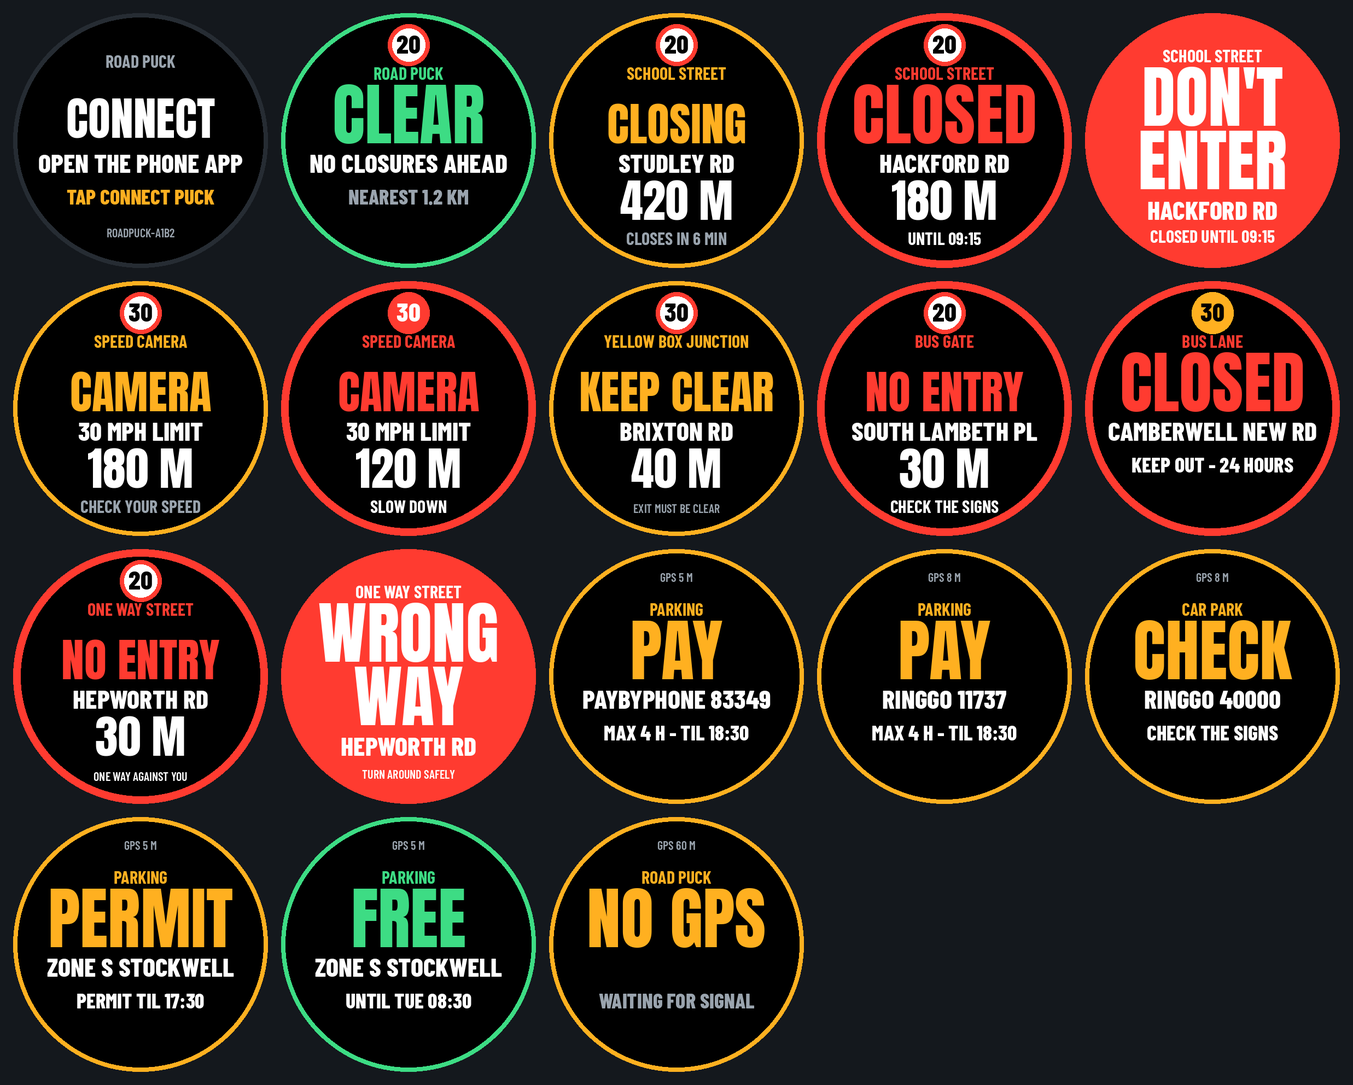
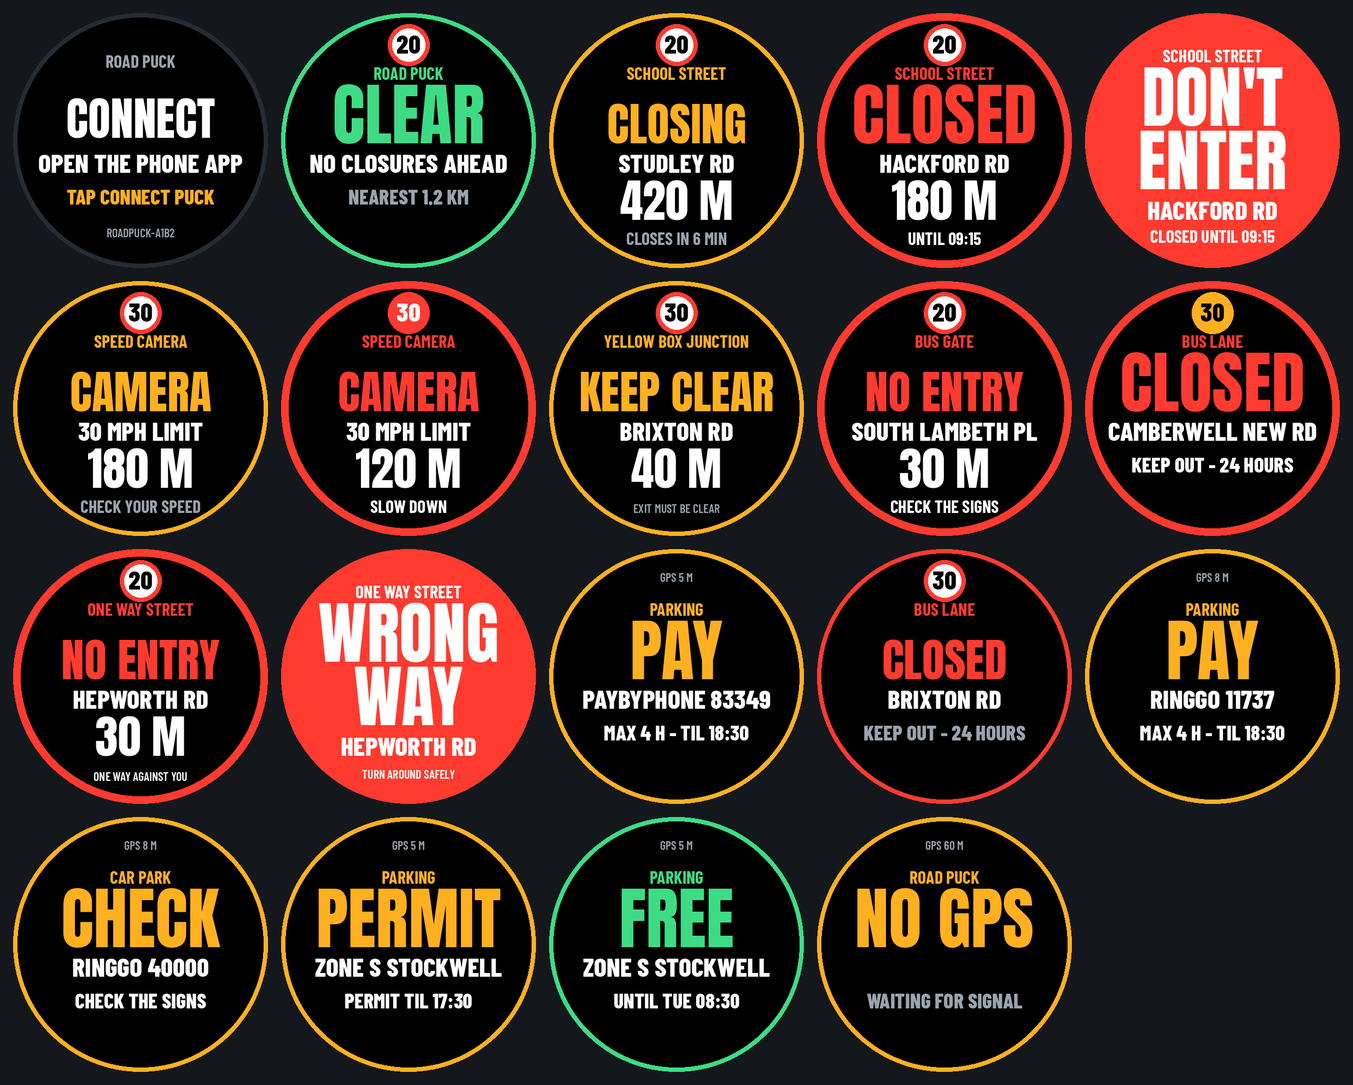
Bus lanes: warn once per stretch, then a quiet reminder
- Bus lane pieces on the same road and direction form one stretch: full
  CLOSED screen and voice for its first few seconds, then a new quiet state L
  (smaller word, thin ring, no sound) while you drive beside it
- The stretch is held through junction gaps, GPS wobbles and stops at lights;
  a lane that restarts after 120-400 m shows the full screen silently, and
  after 400 m with no bus lane the next one is a new stretch
- Voice rule shared by app and tests (makeVoice): new alerts only, the same
  alert never twice within 2 minutes, quiet alerts never spoken
- A junction with several yellow box shapes is announced once
- tools/sim_drive.js drives a simulated car along a bus lane and prints what
  the driver hears and sees (Brixton Road southbound: 6 bus lane announcements
  down to 1)
- Firmware and puck preview draw state L; demo screen added

Claude-Session: https://claude.ai/code/session_01BRf2QL3Ni6oZgq3dsnjTwK

diff --git a/docs/engine.js b/docs/engine.js
@@ -498,7 +498,7 @@
   // ================= the decision =================
   // pos = { x, y (metres), acc (m), speed (m/s or null), heading (deg or null) }
   // ctx = { roads, zones, parked, mem }  (all optional; mem is a {} the caller keeps between calls)
-  const SEVERITY = { N: 0, K: 1, G: 1, F: 1, P: 1, O: 2, W: 3, Y: 3, C: 4, E: 4, S: 4, X: 5, R: 5 };
+  const SEVERITY = { N: 0, K: 1, G: 1, F: 1, P: 1, O: 2, L: 2, W: 3, Y: 3, C: 4, E: 4, S: 4, X: 5, R: 5 };
 
   function evaluate(feats, pos, clock, ctx = {}) {
     const mem = ctx.mem || (ctx.mem = {});
@@ -629,7 +629,24 @@
       });
     }
     // --- bus lanes on this road, in this direction ---
-    let busWarn = null, busAlong = null;
+    // A long bus lane is stored as many pieces. Pieces on the same road in the same direction form one stretch:
+    // full warning (and voice) once when you join a stretch, then a quiet reminder while you drive beside it,
+    // including across junction gaps. The stretch is forgotten after 400 m with no bus lane.
+    let busWarn = null, busAlong = null, busRemind = null;
+    const busMk = (l, st, dist, quiet) => {
+      const road = l.road.toUpperCase(), rs = shortName(l.road), corr = l.road + '|' + l.direction;
+      const who = l.vehicles.replace(/ and /i, ', ').toUpperCase();
+      const until = st.allDay ? 'IN FORCE 24 HOURS' : `IN FORCE UNTIL ${fmt(st.until)}`;
+      const keep = st.allDay ? 'KEEP OUT - 24 HOURS' : `KEEP OUT TIL ${fmt(st.until)}`;
+      if (quiet === 'remind') return mk('L', {
+        ...extra, kind: 'BUS LANE', word: 'CLOSED', road, roadShort: rs, dist: null, detail: until, puckDetail: keep,
+        instr: `Bus lane alongside: stay out of it. ${who} only.`, lane: l, key: 'L|BUS|' + corr, quiet: true,
+      });
+      return mk('C', {
+        ...extra, kind: 'BUS LANE', word: 'CLOSED', road, roadShort: rs, dist, detail: until, puckDetail: keep,
+        instr: `Stay out of the bus lane. ${who} only.`, lane: l, key: 'C|BUS|' + corr, quiet: !!quiet,
+      });
+    };
     if (ctx.bus && moving) {
       const maxD = 15 + Math.min(pos.acc || 0, 15);
       const h = pos.heading * Math.PI / 180;
@@ -638,26 +655,38 @@
       const hit = on || soon;
       if (hit) {
         const l = hit.l, st = busStatus(l, clock), road = l.road.toUpperCase(), rs = shortName(l.road);
-        const who = l.vehicles.replace(/ and /i, ', ').toUpperCase();
-        const dist = on ? null : 60;
+        const dist = on ? null : 60, corr = l.road + '|' + l.direction;
+        let s = mem.busStretch;
+        const gap = s ? Math.hypot(p[0] - s.last[0], p[1] - s.last[1]) : Infinity;
+        if (!s || s.id !== corr || s.k !== st.k || gap > 400) s = mem.busStretch = { id: corr, k: st.k, n: 0, quiet: false };
+        else if (gap > 120) { s.n = 0; s.quiet = true; }   // starts again after a real gap: show it again, silently
+        s.last = p; s.n++; s.l = l; s.st = st;
         if (st.k === 'closed') {
-          const busC = mk('C', {
-            ...extra, kind: 'BUS LANE', word: 'CLOSED', road, roadShort: rs, dist,
-            detail: st.allDay ? 'IN FORCE 24 HOURS' : `IN FORCE UNTIL ${fmt(st.until)}`,
-            puckDetail: st.allDay ? 'KEEP OUT - 24 HOURS' : `KEEP OUT TIL ${fmt(st.until)}`,
-            instr: `Stay out of the bus lane. ${who} only.`, lane: l,
-          });
-          if (!on) return busC;       // a bus lane starting just ahead
-          busAlong = busC;            // already beside it: hazards just ahead come first
+          if (s.n <= 8) {                                  // first few seconds of this stretch: full warning
+            const busC = busMk(l, st, dist, s.quiet);
+            if (!on) return busC;                          // a bus lane starting just ahead
+            busAlong = busC;                               // already beside it: hazards just ahead come first
+          } else busRemind = busMk(l, st, null, 'remind');
         }
         if (st.k === 'closing') busWarn = mk('W', {
           ...extra, kind: 'BUS LANE', word: 'CLOSING', road, roadShort: rs, dist,
           detail: `IN FORCE FROM ${fmt(st.at)}`, puckDetail: `FROM ${fmt(st.at)}`,
-          instr: `The bus lane comes into force in ${st.inMin} min. Leave it before ${fmt(st.at)}.`, lane: l,
+          instr: `The bus lane comes into force in ${st.inMin} min. Leave it before ${fmt(st.at)}.`, lane: l, key: 'W|BUS|' + corr,
         });
         mem.busOpen = st.k === 'open' ? { l, st, road, rs, dist } : null;  // open lanes are shown only if nothing else is going on
-      } else mem.busOpen = null;
-    } else mem.busOpen = null;
+      } else { mem.busOpen = null; holdBus(); }
+    } else { mem.busOpen = null; if (ctx.bus) holdBus(); }   // stopped at lights beside a bus lane: keep what was showing
+    function holdBus() {   // junction between pieces, a GPS wobble, or a stop: hold the stretch for up to 120 m
+      const s = mem.busStretch;
+      if (!s) return;
+      const gap = Math.hypot(p[0] - s.last[0], p[1] - s.last[1]);
+      if (gap > 400) { mem.busStretch = null; return; }
+      if (gap > 120 || s.k !== 'closed') return;
+      const st = busStatus(s.l, clock);
+      if (st.k !== 'closed') return;
+      if (s.n > 8) busRemind = busMk(s.l, st, null, 'remind');
+      else busAlong = busMk(s.l, st, null, s.quiet);
+    }
 
     // --- bus gate / no motor vehicles / pedestrian zone / timed no entry ahead ---
     let restrWarn = null;
@@ -702,6 +731,7 @@
         detail: box.d ? 'ENTER ONLY IF YOUR EXIT IS CLEAR' : "DON'T STOP IN THE BOX",
         puckDetail: box.d ? 'EXIT MUST BE CLEAR' : "DON'T STOP IN BOX",
         instr: 'Yellow box: only enter when your exit is clear (you may wait in it to turn right).', box: box.bx,
+        key: 'Y|BOX|' + box.bx.junction.replace(/\s*\(.*?\)\s*/g, ' ').trim(),   // a junction can have several box shapes: announce it once
       });
     }
 
@@ -714,6 +744,7 @@
     });
     if (busWarn) return busWarn;
     if (restrWarn) return restrWarn;
+    if (busRemind && !ctx.parked) return busRemind;   // quiet: beside a bus lane you've already been warned about
 
     // --- parked: what are the parking rules here? ---
     if (ctx.parked && (ctx.zones || ctx.pbp || ctx.cps)) {
@@ -861,7 +892,8 @@
       lane: o.lane || null,
       restr: o.restr || null, cam: o.cam || null, box: o.box || null, camOver: !!o.camOver,
       limit: null, mph: null, over: 0,
-      key: st + (o.kind || '') + (f ? f.id : o.lane ? o.lane.id : o.restr ? o.restr.id : o.cam ? o.cam.id : o.box ? o.box.id : o.road || ''),
+      quiet: !!o.quiet,
+      key: o.key || st + (o.kind || '') + (f ? f.id : o.lane ? o.lane.id : o.restr ? o.restr.id : o.cam ? o.cam.id : o.box ? o.box.id : o.road || ''),
     };
   }
 
@@ -885,6 +917,22 @@
     };
   }
 
+  // ---- when to speak: new alerts only, never the same one twice within repeatMs, never quiet ones ----
+  const VOICED = 'CWXRESY';
+  function makeVoice(repeatMs = 120000) {
+    let lastKey = null;
+    const said = new Map();
+    return function (a, nowMs) {
+      if (a.key === lastKey) return false;
+      const first = lastKey === null;
+      lastKey = a.key;
+      if (first || a.quiet || !VOICED.includes(a.st)) return false;
+      if (said.has(a.key) && nowMs - said.get(a.key) < repeatMs) return false;
+      said.set(a.key, nowMs);
+      return true;
+    };
+  }
+
   // ---- message for the puck ----
   function clean(s) { return String(s || '').toUpperCase().replace(/[|]/g, '/').replace(/[^\x20-\x5A]/g, ' ').replace(/\s+/g, ' ').trim(); }
   // v2: 2|STATE|ROAD|DIST|DETAIL|ACC|KIND|WORD|LIMIT|OVER
@@ -899,7 +947,7 @@
   }
 
   const api = {
-    LON0, LAT0, toM, toLL, loadFeatures, nearest, londonNow, inTerm, status, evaluate, makeTracker, puckMessage,
+    LON0, LAT0, toM, toLL, loadFeatures, nearest, londonNow, inTerm, status, evaluate, makeTracker, makeVoice, puckMessage,
     fmt, fmtDist, bearing, angleDiff, parseTimings, loadZones, inZone, zoneStatus, parkingAt, whenText, loadRoads, matchRoad, shortName, DAYS,
     parseHours, loadBusLanes, busStatus, matchBusLane, loadPayByPhone, nearestPayByPhone, parsePayHours, payStatus, priceText, loadCarParks, appFor,
     parseConditional, loadRestrictions, nearestNamed, restrStatus, matchRestriction, loadCameras, loadYellowBoxes, boxDist, aheadOf,

diff --git a/tools/sim_drive.js b/tools/sim_drive.js
@@ -1,0 +1,50 @@
+// Drive a simulated car along a bus lane corridor and count what the driver would see and hear.
+// Run:  node tools/sim_drive.js ["Road name"] [direction]
+const fs = require('fs'), path = require('path');
+const E = require('../docs/engine.js');
+const L = f => JSON.parse(fs.readFileSync(path.join(__dirname, '../docs/data', f), 'utf8'));
+const bus = E.loadBusLanes(L('bus_lanes.geojson'));
+const roads = E.loadRoads(L('basemap.json'));
+const feats = E.loadFeatures(L('school_streets.geojson'));
+const boxes = E.loadYellowBoxes(L('yellow_boxes.geojson'));
+const cams = E.loadCameras(L('cameras.geojson'));
+const restr = E.loadRestrictions(L('restrictions.geojson'), feats, roads);
+
+// group lanes into corridors by road + direction and chain their points in travel order
+const groups = {};
+for (const l of bus) (groups[l.road + '|' + l.direction] = groups[l.road + '|' + l.direction] || []).push(l);
+const len = ls => ls.reduce((s, l) => s + l.length_m, 0);
+const want = process.argv[2], wdir = process.argv[3];
+const key = want ? Object.keys(groups).find(k => k.startsWith(want + '|') && (!wdir || k.endsWith('|' + wdir))) : Object.keys(groups).sort((a, b) => len(groups[b]) - len(groups[a]))[0];
+const lanes = groups[key];
+const dir = lanes[0].dir;
+// order all points along the travel direction
+const pts = lanes.flatMap(l => l.lines.flat());
+const ux = Math.sin(dir * Math.PI / 180), uy = Math.cos(dir * Math.PI / 180);
+pts.sort((a, b) => (a[0] * ux + a[1] * uy) - (b[0] * ux + b[1] * uy));
+// resample every 10 m (1 s at 10 m/s), starting 60 m before the first point
+const path2 = [];
+const first = pts[0];
+for (let d = -60; d < 0; d += 10) path2.push([first[0] + ux * d, first[1] + uy * d]);
+for (let i = 0; i < pts.length - 1; i++) {
+  const a = pts[i], b = pts[i + 1], seg = Math.hypot(b[0] - a[0], b[1] - a[1]);
+  for (let t = 0; t < seg; t += 10) path2.push([a[0] + (b[0] - a[0]) * t / seg, a[1] + (b[1] - a[1]) * t / seg]);
+}
+const clock = { day: 1, min: 8 * 60, term: true };   // Monday 08:00, most lanes in force
+const mem = {}, track = E.makeTracker(4000), voice = E.makeVoice(120000);
+voice({ key: 'start', st: 'N' }, 0);   // the app stays silent for whatever shows first; start clean
+let says = 0, changes = 0, last = '';
+const log = [];
+for (let i = 1; i < path2.length; i++) {
+  const p = path2[i], q = path2[i - 1];
+  const heading = E.bearing(q, p);
+  const pos = { x: p[0], y: p[1], acc: 6, speed: 10, heading };
+  const a = track(E.evaluate(feats, pos, clock, { roads, bus, boxes, cams, restr, mem, fixId: i }), i * 1000);
+  const voiced = voice(a, i * 1000 + 1);
+  if (voiced) { says++; log.push(`${i}s SAY  ${a.st} ${a.kind} ${a.word} | ${a.road} | ${a.detail}`); }
+  const shown = a.st + ' ' + a.kind + ' ' + a.word;
+  if (shown !== last) { changes++; if (!voiced) log.push(`${i}s show ${shown} | ${a.road}`); last = shown; }
+}
+console.log(`${key}: ${lanes.length} lane pieces, ${Math.round(len(lanes))} m of lane, drove ${path2.length * 10} m at 10 m/s, Mon 08:00`);
+console.log(`voice alerts: ${says}   screen changes: ${changes}`);
+console.log(log.slice(0, 60).join('\n'));

diff --git a/app/app.html b/app/app.html
@@ -61,6 +61,8 @@ body[data-tab="drive"] #v-drive, body[data-tab="map"] #v-map, body[data-tab="dat
 .dash[data-st="C"] .band{background:var(--red);color:var(--on-color)}
 .dash[data-st="C"]{border-color:var(--red)}
 .dash[data-st="C"] .detail{color:var(--ink)}
+.dash[data-st="L"] .band{background:#3A0F0C;color:var(--red-ink)}
+.dash[data-st="L"]{border-color:#7A1E18}
 .dash[data-st="W"] .band{background:var(--amber);color:var(--on-color)}
 .dash[data-st="W"]{border-color:var(--amber)}
 .dash[data-st="O"] .band{background:var(--green);color:var(--on-color)}
@@ -595,8 +597,8 @@ function drawPuck(msg) {
     fit(detail, 420, '#fff', [PF.SMALL, PF.TINY]);
     return;
   }
-  const col = { C: '#FF3B30', E: '#FF3B30', W: '#FFB020', P: '#FFB020', S: over ? '#FF3B30' : '#FFB020', Y: '#FFB020', O: '#3DDC84', F: '#3DDC84', G: '#FFB020' }[st] || '#3DDC84';
-  const word = wordIn || ({ C: 'CLOSED', E: 'NO ENTRY', W: 'CLOSING', O: 'OPEN', G: 'NO GPS', P: 'PERMIT', F: 'FREE', S: 'CAMERA', Y: 'KEEP CLEAR' }[st] || 'CLEAR');
+  const col = { C: '#FF3B30', L: '#FF3B30', E: '#FF3B30', W: '#FFB020', P: '#FFB020', S: over ? '#FF3B30' : '#FFB020', Y: '#FFB020', O: '#3DDC84', F: '#3DDC84', G: '#FFB020' }[st] || '#3DDC84';
+  const word = wordIn || ({ C: 'CLOSED', L: 'CLOSED', E: 'NO ENTRY', W: 'CLOSING', O: 'OPEN', G: 'NO GPS', P: 'PERMIT', F: 'FREE', S: 'CAMERA', Y: 'KEEP CLEAR' }[st] || 'CLEAR');
   const strong = st === 'C' || st === 'E' || (st === 'S' && over);
   disc(col); disc('#000', 233 - (strong ? 14 : 8));
   if (limit) {
@@ -608,7 +610,7 @@ function drawPuck(msg) {
     pv.fillText(String(limit), 233, cy + capH(PF.ROAD) / 2);
   } else if (acc !== '') fit(`GPS ${acc} M`, 60, '#9AA4AE', [PF.TINY]);
   fit(kind || 'ROAD PUCK', 122, col, [PF.SMALL, PF.TINY]);
-  fit(word, 238, col, [PF.STATUS, PF.BIG]);
+  fit(word, 238, col, st === 'L' ? [PF.BIG] : [PF.STATUS, PF.BIG]);
   fit(road, 292, '#fff', [PF.ROAD, PF.ROAD_S, PF.SMALL]);
   if (distTxt) { fit(distTxt, 378, '#fff', [PF.BIG]); fit(detail, 424, strong ? '#fff' : '#9AA4AE', [PF.SMALL, PF.TINY]); }
   else fit(detail, 350, 'CEPF'.includes(st) ? '#fff' : '#9AA4AE', [PF.ROAD_S, PF.SMALL, PF.TINY]);
@@ -636,12 +638,10 @@ function speakOver(a) {  // one reminder when you first go well over the limit
   overSaid = a.limit;
   try { speechSynthesis.speak(Object.assign(new SpeechSynthesisUtterance(`Speed limit ${a.limit}.`), { lang: 'en-GB' })); } catch (e) {}
 }
+const voiceSays = E.makeVoice(120000);   // new alerts only; the same one never twice in 2 minutes
 function speak(a) {
   speakOver(a);
-  const key = a.key;
-  if (key === S.spokenKey) return;
-  const prev = S.spokenKey; S.spokenKey = key;
-  if (!S.sound || !prev) return;
+  if (!voiceSays(a, Date.now()) || !S.sound) return;
   const road = a.f ? a.f.road : a.road.toLowerCase().replace(/\b\w/g, c => c.toUpperCase());
   const line = a.st === 'S' ? (a.kind === 'RED LIGHT CAMERA' ? 'Red light camera ahead.' : `Speed camera ahead.${a.cam && (a.cam.maxspeed || a.limit) ? ` ${a.cam.maxspeed || a.limit} limit.` : ''}`)
     : a.st === 'Y' ? 'Yellow box junction ahead. Only enter if your exit is clear.'

diff --git a/docs/index.html b/docs/index.html
@@ -66,6 +66,8 @@ body[data-tab="drive"] #v-drive, body[data-tab="map"] #v-map, body[data-tab="dat
 .dash[data-st="C"] .band{background:var(--red);color:var(--on-color)}
 .dash[data-st="C"]{border-color:var(--red)}
 .dash[data-st="C"] .detail{color:var(--ink)}
+.dash[data-st="L"] .band{background:#3A0F0C;color:var(--red-ink)}
+.dash[data-st="L"]{border-color:#7A1E18}
 .dash[data-st="W"] .band{background:var(--amber);color:var(--on-color)}
 .dash[data-st="W"]{border-color:var(--amber)}
 .dash[data-st="O"] .band{background:var(--green);color:var(--on-color)}
@@ -602,8 +604,8 @@ function drawPuck(msg) {
     fit(detail, 420, '#fff', [PF.SMALL, PF.TINY]);
     return;
   }
-  const col = { C: '#FF3B30', E: '#FF3B30', W: '#FFB020', P: '#FFB020', S: over ? '#FF3B30' : '#FFB020', Y: '#FFB020', O: '#3DDC84', F: '#3DDC84', G: '#FFB020' }[st] || '#3DDC84';
-  const word = wordIn || ({ C: 'CLOSED', E: 'NO ENTRY', W: 'CLOSING', O: 'OPEN', G: 'NO GPS', P: 'PERMIT', F: 'FREE', S: 'CAMERA', Y: 'KEEP CLEAR' }[st] || 'CLEAR');
+  const col = { C: '#FF3B30', L: '#FF3B30', E: '#FF3B30', W: '#FFB020', P: '#FFB020', S: over ? '#FF3B30' : '#FFB020', Y: '#FFB020', O: '#3DDC84', F: '#3DDC84', G: '#FFB020' }[st] || '#3DDC84';
+  const word = wordIn || ({ C: 'CLOSED', L: 'CLOSED', E: 'NO ENTRY', W: 'CLOSING', O: 'OPEN', G: 'NO GPS', P: 'PERMIT', F: 'FREE', S: 'CAMERA', Y: 'KEEP CLEAR' }[st] || 'CLEAR');
   const strong = st === 'C' || st === 'E' || (st === 'S' && over);
   disc(col); disc('#000', 233 - (strong ? 14 : 8));
   if (limit) {
@@ -615,7 +617,7 @@ function drawPuck(msg) {
     pv.fillText(String(limit), 233, cy + capH(PF.ROAD) / 2);
   } else if (acc !== '') fit(`GPS ${acc} M`, 60, '#9AA4AE', [PF.TINY]);
   fit(kind || 'ROAD PUCK', 122, col, [PF.SMALL, PF.TINY]);
-  fit(word, 238, col, [PF.STATUS, PF.BIG]);
+  fit(word, 238, col, st === 'L' ? [PF.BIG] : [PF.STATUS, PF.BIG]);
   fit(road, 292, '#fff', [PF.ROAD, PF.ROAD_S, PF.SMALL]);
   if (distTxt) { fit(distTxt, 378, '#fff', [PF.BIG]); fit(detail, 424, strong ? '#fff' : '#9AA4AE', [PF.SMALL, PF.TINY]); }
   else fit(detail, 350, 'CEPF'.includes(st) ? '#fff' : '#9AA4AE', [PF.ROAD_S, PF.SMALL, PF.TINY]);
@@ -643,12 +645,10 @@ function speakOver(a) {  // one reminder when you first go well over the limit
   overSaid = a.limit;
   try { speechSynthesis.speak(Object.assign(new SpeechSynthesisUtterance(`Speed limit ${a.limit}.`), { lang: 'en-GB' })); } catch (e) {}
 }
+const voiceSays = E.makeVoice(120000);   // new alerts only; the same one never twice in 2 minutes
 function speak(a) {
   speakOver(a);
-  const key = a.key;
-  if (key === S.spokenKey) return;
-  const prev = S.spokenKey; S.spokenKey = key;
-  if (!S.sound || !prev) return;
+  if (!voiceSays(a, Date.now()) || !S.sound) return;
   const road = a.f ? a.f.road : a.road.toLowerCase().replace(/\b\w/g, c => c.toUpperCase());
   const line = a.st === 'S' ? (a.kind === 'RED LIGHT CAMERA' ? 'Red light camera ahead.' : `Speed camera ahead.${a.cam && (a.cam.maxspeed || a.limit) ? ` ${a.cam.maxspeed || a.limit} limit.` : ''}`)
     : a.st === 'Y' ? 'Yellow box junction ahead. Only enter if your exit is clear.'

diff --git a/tools/test_engine.js b/tools/test_engine.js
@@ -316,5 +316,36 @@ console.log('\nParking apps');
   check('Puck message for a car park has 10 fields and word PAY', msg.length === 10 && msg[1] === 'P' && msg[7] === 'PAY', E.puckMessage(kp));
 }
 
+// ---------- long bus lanes: warn once, then a quiet reminder ----------
+console.log('\nLong bus lanes');
+{
+  const bus = lanes;
+  const bx = bus.filter(l => l.road === 'Brixton Road' && l.direction === 'South');
+  const dir = bx[0].dir, ux = Math.sin(dir * Math.PI / 180), uy = Math.cos(dir * Math.PI / 180);
+  const pts = bx.flatMap(l => l.lines.flat()).sort((a, b) => (a[0] * ux + a[1] * uy) - (b[0] * ux + b[1] * uy));
+  const route = [];
+  for (let i = 0; i < pts.length - 1; i++) {
+    const a = pts[i], b = pts[i + 1], seg = Math.hypot(b[0] - a[0], b[1] - a[1]);
+    for (let d = 0; d < seg; d += 10) route.push([a[0] + (b[0] - a[0]) * d / seg, a[1] + (b[1] - a[1]) * d / seg]);
+  }
+  const mem = {}, voice = E.makeVoice(120000), states = [];
+  voice({ key: 'start', st: 'N' }, 0);
+  let busSaid = 0;
+  for (let i = 1; i < route.length; i++) {
+    const hd = E.bearing(route[i - 1], route[i]);
+    const a = E.evaluate([], { x: route[i][0], y: route[i][1], acc: 6, speed: 10, heading: hd }, MON('08:00'), { bus, mem, fixId: i });
+    if (voice(a, i * 1000) && a.kind === 'BUS LANE') busSaid++;
+    states.push(a.st);
+  }
+  const quiet = states.slice(10).filter(s => s === 'L').length, shown = states.slice(10).length;
+  check(`Brixton Road southbound, ${Math.round(route.length * 10)} m beside bus lanes, Mon 08:00: bus lane spoken once`, busSaid === 1, `spoken ${busSaid} times`);
+  check('After the first few seconds the screen is the quiet reminder (L), not CLOSED', states.slice(0, 8).every(s => s === 'C') && quiet / shown > 0.85,
+    `first 8 s: ${states.slice(0, 8).join('')}; after: ${quiet}/${shown} quiet`);
+  const v = E.makeVoice(120000); v({ key: 'x', st: 'N' }, 0);
+  const y = { key: 'Y|BOX|A', st: 'Y' }, k = { key: 'K', st: 'K' };
+  const r = [v(y, 1000), v(k, 2000), v(y, 3000), v(k, 4000), v(y, 200000), v({ key: 'C|q', st: 'C', quiet: true }, 201000)];
+  check('Voice: same alert not repeated within 2 minutes, quiet alerts never spoken', r.join() === 'true,false,false,false,true,false', r.join());
+}
+
 console.log(fails ? `\n${fails} FAILED` : '\nAll checks passed');
 process.exit(fails ? 1 : 0);

diff --git a/tools/puck_preview.py b/tools/puck_preview.py
@@ -99,7 +99,7 @@ def screen(msg):
         fit(d, road, 378, WHITE, "ROAD", "ROAD_S", "SMALL")
         fit(d, detail, 420, WHITE, "SMALL", "TINY")
         return img
-    col, w0 = {"C": (RED, "CLOSED"), "E": (RED, "NO ENTRY"), "W": (AMBER, "CLOSING"), "P": (AMBER, "PERMIT"),
+    col, w0 = {"C": (RED, "CLOSED"), "L": (RED, "CLOSED"), "E": (RED, "NO ENTRY"), "W": (AMBER, "CLOSING"), "P": (AMBER, "PERMIT"),
                "S": (RED if over else AMBER, "CAMERA"), "Y": (AMBER, "KEEP CLEAR"),
                "O": (GREEN, "OPEN"), "F": (GREEN, "FREE"), "G": (AMBER, "NO GPS")}.get(st, (GREEN, "CLEAR"))
     word = word or w0
@@ -110,7 +110,7 @@ def screen(msg):
     elif acc:
         fit(d, f"GPS {acc} M", 60, GREY, "TINY")
     fit(d, kind or "ROAD PUCK", 122, col, "SMALL", "TINY")
-    fit(d, word, 238, col, "STATUS", "BIG")
+    fit(d, word, 238, col, *(("BIG",) if st == "L" else ("STATUS", "BIG")))
     fit(d, road, 292, WHITE, "ROAD", "ROAD_S", "SMALL")
     if dist >= 0:
         fit(d, fmt_dist(dist), 378, WHITE, "BIG")

diff --git a/README.md b/README.md
@@ -80,6 +80,7 @@ For every closure the engine measures the distance to the closed stretch of road
 | **WRONG WAY** (flashing red) | Two GPS readings in a row on a one-way street, travelling against its direction. |
 | **NO ENTRY** | The street 25-45 m straight ahead is one-way against you (and isn't the road you're on). |
 | **BUS LANE: CLOSED / CLOSING / OPEN** | You're on a road with a bus lane, travelling its way, and it is in force / starts within 15 min / not in force. GPS can't tell lanes apart, so this tells you the rule, not that you're in the lane. |
+| **BUS LANE: CLOSED (quiet)** | Still beside a bus lane you've already been warned about: smaller word, thin ring, no sound. The full warning and voice come once per stretch of bus lane (same road, same direction), for its first few seconds; junction gaps don't restart it. A lane that starts again after a gap of 120-400 m flashes up the full screen silently; after 400 m with no bus lane, the next one is a new stretch. |
 | **PAY / PERMIT / FREE** | Stopped for 15 seconds. PAY: a pay-by-phone bay within about 45 m is charging now (shows the app and location code, max stay, until when). PERMIT: the zone is controlled and there's no pay bay on this street (the phone names the nearest one). FREE: controls are off, and until when. |
 | **NO ENTRY** (bus gate, no motor vehicles, pedestrian zone, timed) | The restricted street is 30-80 m straight ahead, lined up with your direction, and in force. |
 | **DON'T ENTER** (restricted street) | Two GPS readings in a row on a restricted street while it's in force. |
@@ -90,8 +91,13 @@ For every closure the engine measures the distance to the closed stretch of road
 
 When several things apply, the puck shows the most urgent:
 DON'T ENTER / WRONG WAY, then CAMERA, then School Street CLOSED, then NO ENTRY ahead, then KEEP CLEAR,
-then a bus lane you're driving beside, then anything CLOSING, then parking, then OPEN / CLEAR.
-A bus lane that starts just ahead of you counts as CLOSED ahead.
+then a bus lane you've just joined, then anything CLOSING, then the quiet bus lane reminder, then parking,
+then OPEN / CLEAR. A bus lane that starts just ahead of you counts as CLOSED ahead.
+
+**Voice:** each alert is spoken once when it first appears, and the same alert is never spoken again within
+2 minutes, so flicking to another screen and back stays silent. A junction with several yellow box shapes is
+announced once. `node tools/sim_drive.js "Brixton Road" South` drives a simulated car along a bus lane and
+prints everything the driver would hear and see.
 
 - **Look-ahead zone:** 250 m when slow, growing with speed up to 600 m, plus GPS error (capped at 50 m).
 - **"In front of you":** within 75° of your direction of travel. When you're stopped there's no direction, so every nearby closure counts; the engine errs on the side of warning.
